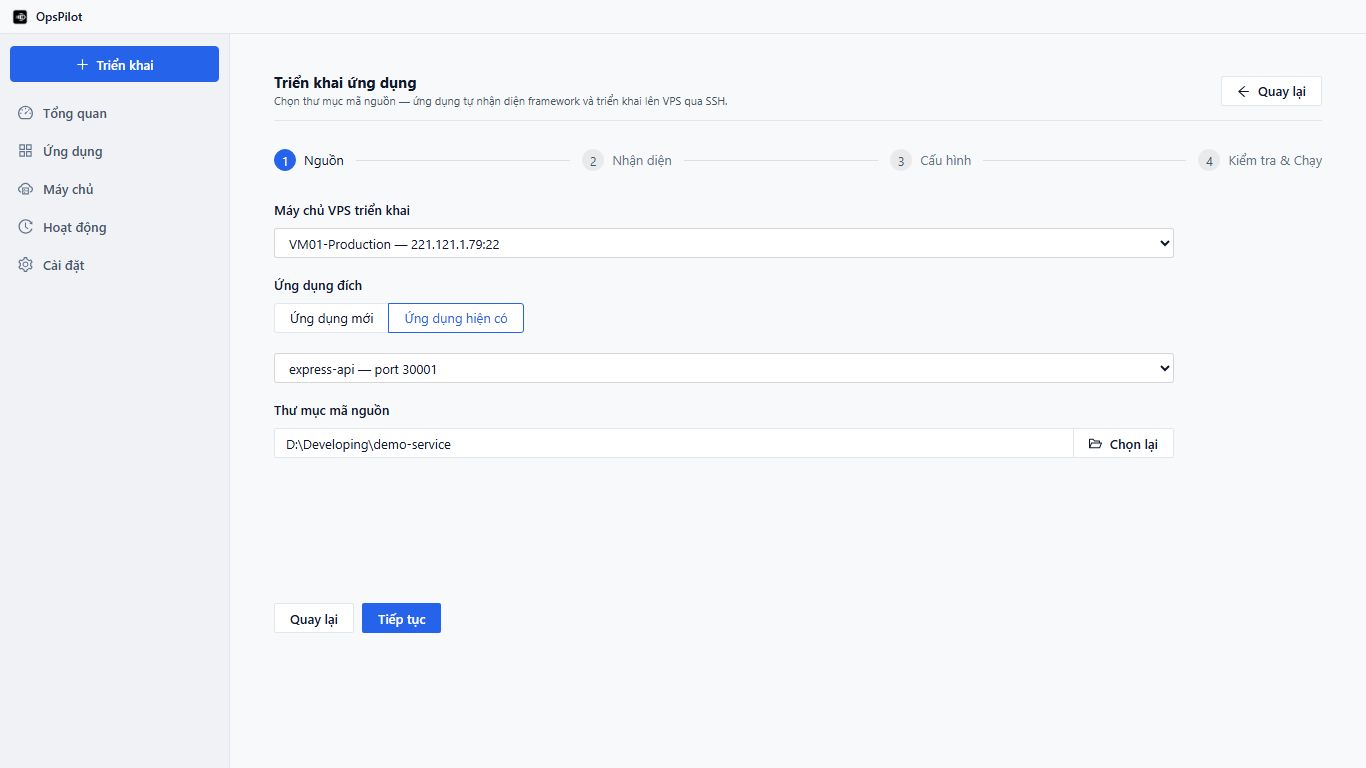
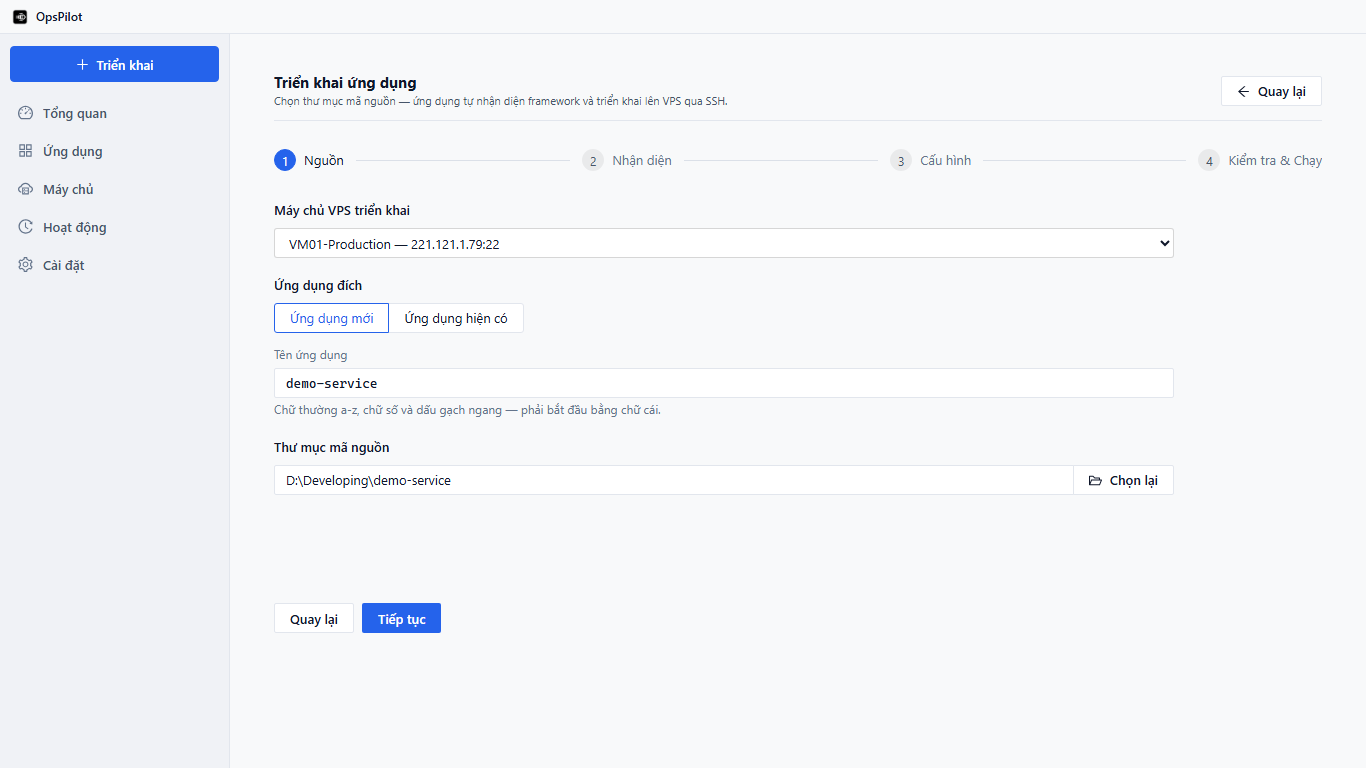
fix(ui): giu ten app tuy chinh va tach biet che do DeployPage UI-1f

diff --git a/app/src/renderer/src/pages/DeployPage.tsx b/app/src/renderer/src/pages/DeployPage.tsx
@@ -92,7 +92,8 @@ export function DeployPage({ onOpenDashboard, onBack }: DeployPageProps): React.
   const [detection, setDetection] = useState<DetectionResultDto | null>(null)
   const [detecting, setDetecting] = useState(false)
   const [detectError, setDetectError] = useState<string | null>(null)
-  const [appName, setAppName] = useState('')
+  const [newAppName, setNewAppName] = useState('')
+  const [userEditedNewAppName, setUserEditedNewAppName] = useState(false)
   const [envValues, setEnvValues] = useState<Record<string, string>>({})
   const [optionalKeys, setOptionalKeys] = useState<string[]>([])
   const [pendingOptional, setPendingOptional] = useState<string | undefined>(undefined)
@@ -117,6 +118,10 @@ export function DeployPage({ onOpenDashboard, onBack }: DeployPageProps): React.
     targetModeRef.current = targetMode
   }, [targetMode])
 
+  const selectedExistingApp =
+    targetMode === 'existing' && appSelect > 0 ? apps.find((app) => app.id === appSelect) : null
+  const appName = targetMode === 'existing' ? (selectedExistingApp?.name ?? '') : newAppName
+
   const clearPreselectSession = useCallback((): void => {
     activePreselectRef.current = null
     clearDeployPreselect()
@@ -135,9 +140,6 @@ export function DeployPage({ onOpenDashboard, onBack }: DeployPageProps): React.
 
       // Bỏ app_id cũ ngay lập tức khi đổi VPS
       setAppSelect(-1)
-      if (targetModeRef.current === 'existing') {
-        setAppName('')
-      }
 
       const result = await window.api.invoke('app:list', id)
       if (appListReqIdRef.current !== reqId) return
@@ -156,7 +158,6 @@ export function DeployPage({ onOpenDashboard, onBack }: DeployPageProps): React.
         const found = fetchedApps.find((app) => app.id === preselectedAppId)
         if (found) {
           setAppSelect(found.id)
-          setAppName(found.name)
           setTargetMode('existing')
           activePreselectRef.current = null
           clearDeployPreselect()
@@ -169,17 +170,12 @@ export function DeployPage({ onOpenDashboard, onBack }: DeployPageProps): React.
         activePreselectRef.current = null
         clearDeployPreselect()
       } else {
-        // Khi đổi VPS không phải preselect:
-        // Yêu cầu chọn rõ ứng dụng trên VPS mới, không tự chọn app đầu tiên
+        // Khi đổi VPS: giữ nguyên tên đã nhập của ứng dụng mới, không ghi đè;
+        // yêu cầu chọn rõ ứng dụng trên VPS mới nếu ở chế độ existing
         setAppSelect(-1)
-        if (targetModeRef.current === 'existing') {
-          setAppName('')
-        } else if (sourcePath) {
-          setAppName(toAppName(sourcePath))
-        }
       }
     },
-    [clearDeployPreselect, sourcePath, strings]
+    [clearDeployPreselect, strings]
   )
 
   const loadVpsList = useCallback(async (): Promise<void> => {
@@ -268,8 +264,9 @@ export function DeployPage({ onOpenDashboard, onBack }: DeployPageProps): React.
     const result = await window.api.invoke('system:pick-folder')
     if (!result.ok || !result.data.path) return
     setSourcePath(result.data.path)
-    if (targetMode === 'new') {
-      setAppName(toAppName(result.data.path))
+    // Chỉ gợi ý tên ứng dụng mới từ thư mục khi người dùng chưa tự nhập tên
+    if (targetMode === 'new' && !userEditedNewAppName) {
+      setNewAppName(toAppName(result.data.path))
     }
     setDetection(null)
     setDetectError(null)
@@ -284,7 +281,7 @@ export function DeployPage({ onOpenDashboard, onBack }: DeployPageProps): React.
     if (targetMode === 'existing') {
       if (appSelect === -1 || !apps.some((app) => app.id === appSelect)) return
     } else if (targetMode === 'new') {
-      if (!appName.trim() || !APP_NAME_RE.test(appName)) return
+      if (!newAppName.trim() || !APP_NAME_RE.test(newAppName.trim())) return
     }
     if (!detection) {
       const ok = await runDetect(sourcePath)
@@ -330,7 +327,7 @@ export function DeployPage({ onOpenDashboard, onBack }: DeployPageProps): React.
     return {
       vps_id: vpsId as number,
       app_id: validApp ? validApp.id : undefined,
-      app_name: validApp ? validApp.name : appName.trim(),
+      app_name: validApp ? validApp.name : newAppName.trim(),
       source_path: sourcePath as string,
       env: Object.fromEntries(Object.entries(envValues).filter(([, value]) => value.trim() !== ''))
     }
@@ -548,12 +545,11 @@ export function DeployPage({ onOpenDashboard, onBack }: DeployPageProps): React.
                         setPreselectAppError(null)
                         if (newMode === 'new') {
                           setAppSelect(-1)
-                          if (sourcePath) {
-                            setAppName(toAppName(sourcePath))
+                          if (!userEditedNewAppName && !newAppName.trim() && sourcePath) {
+                            setNewAppName(toAppName(sourcePath))
                           }
                         } else {
                           setAppSelect(-1)
-                          setAppName('')
                         }
                       }}
                     >
@@ -621,7 +617,9 @@ export function DeployPage({ onOpenDashboard, onBack }: DeployPageProps): React.
                                   setPreselectAppError(null)
                                   setTargetMode('new')
                                   setAppSelect(-1)
-                                  if (sourcePath) setAppName(toAppName(sourcePath))
+                                  if (!userEditedNewAppName && !newAppName.trim() && sourcePath) {
+                                    setNewAppName(toAppName(sourcePath))
+                                  }
                                 }}
                               >
                                 {strings.deploy.switchToNewApp}
@@ -643,11 +641,8 @@ export function DeployPage({ onOpenDashboard, onBack }: DeployPageProps): React.
                             if (selectedId > 0) {
                               clearPreselectSession()
                               setAppSelect(selectedId)
-                              const target = apps.find((app) => app.id === selectedId)
-                              if (target) setAppName(target.name)
                             } else {
                               setAppSelect(-1)
-                              setAppName('')
                             }
                           }}
                         >
@@ -675,8 +670,11 @@ export function DeployPage({ onOpenDashboard, onBack }: DeployPageProps): React.
                       <Input
                         className="mono-input"
                         placeholder="my-app"
-                        value={appName}
-                        onChange={(e) => setAppName(e.target.value)}
+                        value={newAppName}
+                        onChange={(e) => {
+                          setNewAppName(e.target.value)
+                          setUserEditedNewAppName(e.target.value.trim().length > 0)
+                        }}
                       />
                       <Typography.Text type="secondary" style={{ fontSize: 12 }}>
                         {strings.deploy.targetApp.appNameRule}
@@ -805,18 +803,19 @@ export function DeployPage({ onOpenDashboard, onBack }: DeployPageProps): React.
                   <Typography.Text strong>{strings.deploy.config.appLabel}</Typography.Text>
                   <Select
                     style={{ width: '100%', marginTop: 8 }}
-                    value={appSelect}
+                    value={targetMode === 'existing' ? appSelect : -1}
                     onChange={(value) => {
                       clearPreselectSession()
-                      setAppSelect(value)
                       if (value === -1) {
                         setTargetMode('new')
-                        if (sourcePath && !appName) setAppName(toAppName(sourcePath))
+                        setAppSelect(-1)
+                        if (!userEditedNewAppName && !newAppName.trim() && sourcePath) {
+                          setNewAppName(toAppName(sourcePath))
+                        }
                         return
                       }
                       setTargetMode('existing')
-                      const target = apps.find((app) => app.id === value)
-                      if (target) setAppName(target.name)
+                      setAppSelect(value)
                     }}
                     options={[
                       { value: -1, label: strings.deploy.config.newApp },
@@ -833,8 +832,11 @@ export function DeployPage({ onOpenDashboard, onBack }: DeployPageProps): React.
                     style={{ marginTop: 8 }}
                     className="mono-input"
                     value={appName}
-                    disabled={appSelect !== -1}
-                    onChange={(event) => setAppName(event.target.value)}
+                    disabled={targetMode === 'existing'}
+                    onChange={(event) => {
+                      setNewAppName(event.target.value)
+                      setUserEditedNewAppName(event.target.value.trim().length > 0)
+                    }}
                   />
                   <Typography.Text type="secondary" style={{ fontSize: 12 }}>
                     {strings.deploy.config.appNameRule}

diff --git a/app/src/renderer/src/pages/DeployPage.test.tsx b/app/src/renderer/src/pages/DeployPage.test.tsx
@@ -956,4 +956,119 @@ describe('DeployPage — wizard va log', () => {
     expect(await screen.findByText(strings.deploy.noVps)).toBeTruthy()
     expect(screen.queryByText(strings.deploy.vpsLoading)).toBeNull()
   })
+
+  it('nhap ten tuy chinh -> chon/doi thu muc -> doi VPS -> deploy:precheck xac nhan app_name van dung', async () => {
+    let currentFolder = 'D:\\src\\express-api'
+    const { invoke } = mockApi({
+      ...handersHappy,
+      'vps:list': async () => ({ ok: true, data: [VPS_A, VPS_B] }),
+      'app:list': async () => ({ ok: true, data: [] }),
+      'system:pick-folder': async () => ({ ok: true, data: { path: currentFolder } })
+    })
+
+    render(<DeployPage />)
+    await waitFor(() => expect(invoke).toHaveBeenCalledWith('app:list', 1))
+
+    // 1. Nhập tên tùy chỉnh ở bước Nguồn
+    const nameInput = screen.getByPlaceholderText('my-app') as HTMLInputElement
+    fireEvent.change(nameInput, { target: { value: 'custom-app-service' } })
+    expect(nameInput.value).toBe('custom-app-service')
+
+    // 2. Chọn thư mục lần 1
+    fireEvent.click(screen.getByText(strings.deploy.pickFolder))
+    await waitFor(() => expect(screen.getByDisplayValue('D:\\src\\express-api')).toBeTruthy())
+    // Tên tùy chỉnh vẫn giữ nguyên, không bị ghi đè bởi express-api
+    expect(nameInput.value).toBe('custom-app-service')
+
+    // 3. Đổi thư mục lần 2
+    currentFolder = 'D:\\projects\\another-tool'
+    fireEvent.click(screen.getByText(strings.deploy.pickAgain))
+    await waitFor(() => expect(screen.getByDisplayValue('D:\\projects\\another-tool')).toBeTruthy())
+    // Tên tùy chỉnh vẫn giữ nguyên, không bị ghi đè bởi another-tool
+    expect(nameInput.value).toBe('custom-app-service')
+
+    // 4. Đổi VPS sang VPS 2
+    const vpsSelect = screen.getAllByRole('combobox')[0]
+    fireEvent.change(vpsSelect, { target: { value: '2' } })
+    await waitFor(() => expect(invoke).toHaveBeenCalledWith('app:list', 2))
+    // Tên tùy chỉnh vẫn giữ nguyên sau khi đổi VPS
+    expect(nameInput.value).toBe('custom-app-service')
+
+    // 5. Đi tiếp wizard tới Step 3 (Review / Precheck)
+    const nextBtn = screen.getByRole('button', { name: strings.deploy.next })
+    fireEvent.click(nextBtn)
+
+    // Step 1: Detect
+    await screen.findByText('Express.js')
+    fireEvent.click(screen.getByText('Next'))
+
+    // Step 2: Config - kiểm tra input tên ứng dụng vẫn là tên tùy chỉnh
+    await screen.findByLabelText('PORT')
+    expect(screen.getByDisplayValue('custom-app-service')).toBeTruthy()
+    fireEvent.change(screen.getByLabelText('PORT'), { target: { value: '3000' } })
+    fireEvent.change(screen.getByLabelText('SECRET_KEY'), { target: { value: 'sekret' } })
+    fireEvent.click(screen.getByText('Next'))
+
+    // Step 3: Review & Precheck
+    await screen.findByText('RAM trống')
+    expect(invoke).toHaveBeenCalledWith('deploy:precheck', {
+      vps_id: 2,
+      app_id: undefined,
+      app_name: 'custom-app-service',
+      source_path: 'D:\\projects\\another-tool',
+      env: { PORT: '3000', SECRET_KEY: 'sekret' }
+    })
+  })
+
+  it('doi giua hai che do ung dung moi va hien co khong mang ten app hien co sang app moi', async () => {
+    const currentFolder = 'D:\\src\\express-api'
+    const { invoke } = mockApi({
+      ...handersHappy,
+      'vps:list': async () => ({ ok: true, data: [VPS_A] }),
+      'app:list': async () => ({ ok: true, data: [APP_1] }),
+      'system:pick-folder': async () => ({ ok: true, data: { path: currentFolder } })
+    })
+
+    render(<DeployPage />)
+    await waitFor(() => expect(invoke).toHaveBeenCalledWith('app:list', 1))
+
+    // Tình huống A: Người dùng nhập tên tùy chỉnh
+    const nameInput = screen.getByPlaceholderText('my-app') as HTMLInputElement
+    fireEvent.change(nameInput, { target: { value: 'my-custom-tool' } })
+    expect(nameInput.value).toBe('my-custom-tool')
+
+    // Chuyển sang chế độ "Ứng dụng hiện có"
+    fireEvent.click(screen.getByRole('radio', { name: strings.deploy.targetApp.existing }))
+
+    // Chọn APP_1 ('preselected-api')
+    const appSelect = screen.getByRole('combobox', {
+      name: strings.deploy.targetApp.selectApp
+    })
+    fireEvent.change(appSelect, { target: { value: '10' } })
+
+    // Chuyển lại về chế độ "Ứng dụng mới"
+    fireEvent.click(screen.getByRole('radio', { name: strings.deploy.targetApp.new }))
+
+    // Input tên ứng dụng mới vẫn là 'my-custom-tool', KHÔNG bị đổi thành 'preselected-api'
+    const restoredInput = screen.getByPlaceholderText('my-app') as HTMLInputElement
+    expect(restoredInput.value).toBe('my-custom-tool')
+
+    // Tình huống B: Khi chưa nhập tên mà chỉ chọn thư mục
+    fireEvent.change(restoredInput, { target: { value: '' } })
+    fireEvent.click(screen.getByText(strings.deploy.pickFolder))
+    await waitFor(() => expect(screen.getByDisplayValue('D:\\src\\express-api')).toBeTruthy())
+    expect(restoredInput.value).toBe('express-api')
+
+    // Chuyển sang "Ứng dụng hiện có" và chọn APP_1
+    fireEvent.click(screen.getByRole('radio', { name: strings.deploy.targetApp.existing }))
+    fireEvent.change(screen.getByRole('combobox', { name: strings.deploy.targetApp.selectApp }), {
+      target: { value: '10' }
+    })
+
+    // Chuyển lại về "Ứng dụng mới"
+    fireEvent.click(screen.getByRole('radio', { name: strings.deploy.targetApp.new }))
+    const currentInput = screen.getByPlaceholderText('my-app') as HTMLInputElement
+    // Không bị mang tên 'preselected-api' sang app mới
+    expect(currentInput.value).toBe('express-api')
+  })
 })
